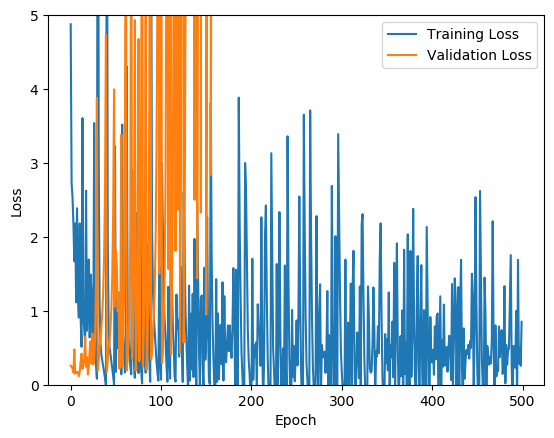
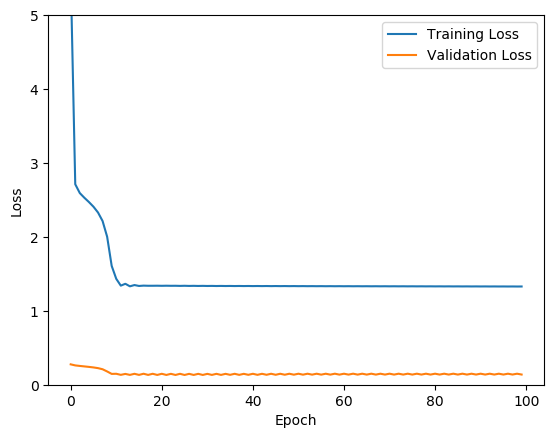
all model sims working

diff --git a/simple_models.py b/simple_models.py
@@ -13,11 +13,11 @@ Outputs:
 """
 def simple_model_one_loglkhd(theta, phi, df):
     
-    x = df.drop(['time', 'status'], axis=1) # Pandas dataframe of covariate columns
+    x = df.drop(["time", "status", "true_alpha", "true_beta"], axis=1) # Pandas dataframe of covariate columns
     a = theta[0] + x.dot(np.array(theta[1:])) # alpha = theta_0 + < theta[1:p], x >
     
     if True in (item <= 0 for item in a): # all alpha values must be positive for l to be defined
-        return - math.inf
+        return - math.inf # L=0 so l=-infinity
     
     l = np.sum(df["status"] * np.log(phi * np.power(a,-phi) * np.power(df["time"],phi-1))) # first sum of l
     l -= np.sum(np.power(df["time"]/a, phi-1)) # second sum of l
@@ -38,16 +38,16 @@ Outputs:
 
 def simple_model_one(train_df, test_df, init_params):
     # fit the model
-    fun = lambda x: -1 * simple_model_one_loglkhd(x[:-1], x[-1], train_df) # wrapper for negative log-lkhd function
-    res = scipy.optimize.minimize(fun, method='Nelder-Mead', x0=init_params) # minimise negative log-lkhd
+    fun = lambda x: -1 * simple_model_one_loglkhd(x[:-1], x[-1], train_df) # wrapper function: maps x to -logL(x|train_df)
+    res = scipy.optimize.minimize(fun, x0=init_params) # minimise negative log-lkhd
     # make predictions on the test set
-    parameters = res.x
-    theta = parameters[0:-1]
+    parameters = res.x # the optimal parameter values
+    theta = parameters[0:-1] 
     phi = parameters[-1]
     test_result = test_df.copy()
-    x = test_result.drop(["time", "status"], axis=1)
-    test_result["alpha"] = theta[0] + x.dot(np.array(theta[1:])) # alpha = theta_0 + < theta[1:p], x >
-    test_result["beta"] = phi # beta = phi
+    x = test_result.drop(["time", "status", "true_alpha", "true_beta"], axis=1)
+    test_result["pred_alpha"] = theta[0] + x.dot(np.array(theta[1:])) # alpha = theta_0 + < theta[1:p], x >
+    test_result["pred_beta"] = phi # beta = phi
     return ({
             "parameters" : parameters, # the parameter values that minimise the negative log-lkhd
             "convergence_success" : res.success, # Boolean: whether the optimiser converged successfully
@@ -65,12 +65,12 @@ Outputs:
 """
 def simple_model_two_loglkhd(theta, phi, df):
     
-    x = df.drop(['time', 'status'], axis=1) # Pandas dataframe of covariate columns
+    x = df.drop(["time", "status", "true_alpha", "true_beta"], axis=1) # Pandas dataframe of covariate columns
     a = theta[0] + x.dot(np.array(theta[1:])) # alpha = theta_0 + < theta[1:p], x >
     b = phi[0] + x.dot(np.array(phi[1:])) # beta = phi_0 + < phi[1:p], x >
     
     if True in (item <= 0 for item in pd.concat([a,b])): # all alpha and beta values must be positive
-        return - math.inf
+        return - math.inf # L=0 so l=-infinity
     
     l = np.sum(df["status"] * np.log(b * np.power(a,-b) * np.power(df["time"],b-1))) # first sum of l
     l -= np.sum(np.power(df["time"]/a, b-1)) # second sum of l
@@ -91,17 +91,16 @@ Outputs:
 def simple_model_two(train_df, test_df, init_params):
     # fit the model
     fun = lambda x: -1 * simple_model_two_loglkhd(x[:len(x)//2], x[len(x)//2:], train_df) # wrapper for negative log-lkhd function
-    res = scipy.optimize.minimize(fun, method='Nelder-Mead', x0=init_params) # minimise negative log-lkhd
+    res = scipy.optimize.minimize(fun, x0=init_params) # minimise negative log-lkhd
     # make predictions on the test set
     parameters = res.x
-    length = len(parameters)
-    half_length = length//2
+    half_length = len(parameters)//2
     theta = parameters[:half_length]
     phi = parameters[half_length:]
     test_result = test_df.copy()
-    x = test_result.drop(['time', 'status'], axis=1)
-    test_result["alpha"] = theta[0] + x.dot(np.array(theta[1:])) # alpha = theta_0 + < theta[1:p], x >
-    test_result["beta"] = phi[0] + x.dot(np.array(phi[1:])) # beta = phi_0 + < phi[1:p], x >
+    x = test_result.drop(["time", "status", "true_alpha", "true_beta"], axis=1)
+    test_result["pred_alpha"] = theta[0] + x.dot(np.array(theta[1:])) # alpha = theta_0 + < theta[1:p], x >
+    test_result["pred_beta"] = phi[0] + x.dot(np.array(phi[1:])) # beta = phi_0 + < phi[1:p], x >
     return ({
             "parameters" : parameters, # the parameter values that minimise the negative log-lkhd
             "convergence_success" : res.success, # Boolean: whether the optimiser converged successfully

diff --git a/deepweibull.py b/deepweibull.py
@@ -61,10 +61,12 @@ def make_tensors(train_df, test_df):
 
     # separate the features and outcome variables
     train_x = train_df.copy()
+    train_x = train_x.drop(["true_alpha", "true_beta"], axis=1)
     test_x = test_df.copy()
+    test_x = test_x.drop(["true_alpha", "true_beta"], axis=1)
     train_y = pd.DataFrame([train_x.pop(colname) for colname in ['time', 'status']]).T 
     test_y = pd.DataFrame([test_x.pop(colname) for colname in ['time', 'status']]).T
-    # covert to tensor
+    # convert to tensor
     train_x = tf.convert_to_tensor(train_x.values, tf.float32)
     train_y = tf.convert_to_tensor(train_y.values, tf.float32)
     test_x = tf.convert_to_tensor(test_x.values, tf.float32)
@@ -85,7 +87,12 @@ Outputs:
     - test_result: a Pandas dataframe with the outcome variables and corresponding predicted Weibull parameters.
 """
 
-def train_deep_weibull(tensors,learn_rate, epochs, steps_per_epoch, validation_steps):
+def deep_weibull(train_df, test_df, learn_rate, epochs, steps_per_epoch, validation_steps):
+
+    """
+    Make the tensors from the training/test sets
+    """
+    tensors = make_tensors(train_df, test_df)
 
     """
     Define the model:
@@ -127,36 +134,21 @@ def train_deep_weibull(tensors,learn_rate, epochs, steps_per_epoch, validation_s
         verbose=0,
         validation_data=(tensors["test_x"], tensors["test_y"]), 
         validation_steps=validation_steps)
-    
+      
     """
-    Test the final trained model: 
-        - using the training set (x values only)
-        - test_result: shows the time/status values alongside the model's predicted Weibull parameters
+    Test the trained Deep Weibull model on the test set
     """
-    
-    test_predict = model.predict(tensors["test_x"], steps=1) 
-    test_predict = np.resize(test_predict, tensors["test_y"].shape) 
-    test_result = np.concatenate((tensors["test_y"], test_predict), axis=1)
-    
+
+    test_predict = model.predict(tensors["test_x"], steps=1) # predict Weibull parameters using covariates
+    test_predict = np.resize(test_predict, tensors["test_y"].shape) # put into (,2) array
+    test_predict = pd.DataFrame(test_predict) # convert to dataframe
+    test_predict.columns = ["pred_alpha", "pred_beta"] # name columns
+    test_result = test_df.copy()
+    test_result.reset_index(inplace = True) # reset the index (before concat - probably better way of doing this)
+    test_result = pd.concat([test_result, test_predict], axis=1) # results = test data plus predictions
+    test_result.set_index("index", drop=True, inplace=True) # recover the index (after concat - probably better way of doing this)
+
     return ({
             "model" : model,
             "training_history" : training_history,
             "test_result" : test_result})
-
-"""
-Inputs:
-    - tensors: a list of tensors, e.g. as in output of make_train_test(), but only "test_x","test_y" actually get used.
-    - model:a trained model, as in "model" output from train_deep_weibull()
-Outputs:
-    - a Pandas dataframe with four columns 
-        - "time","status" (actual values, from "test_y")
-        - "alpha","beta" (the model's predicted Weibull parameters)s
-"""
-
-def test_deep_weibull(tensors, model):
-    test_predict = model.predict(tensors["test_x"], steps=1) # predict Weibull parameters using covariates
-    test_predict = np.resize(test_predict, tensors["test_y"].shape) 
-    test_result = np.concatenate((tensors["test_x"],tensors["test_y"], test_predict), axis=1)
-    test_result = pd.DataFrame(test_result)
-    test_result.columns = ['x1','x2','x3','time','status','alpha','beta']
-    return test_result

diff --git a/simulations.py b/simulations.py
@@ -1,5 +1,5 @@
 from synthetic_datasets import synthdata_noise, synthdata_custom, make_train_test
-from deepweibull import make_tensors, train_deep_weibull, test_deep_weibull
+from deepweibull import deep_weibull
 from simple_models import simple_model_one, simple_model_two
 
 from matplotlib import pyplot as plt
@@ -21,13 +21,13 @@ Inputs to run simulations:
 """
 # Inputs for the synthetic dataset
 synthdata_type = "custom"
-N = 10
-N_c = 1
+N = 10000
+N_c = 2500
 # Input for making the train/test sets
-train_frac = 0.7
+train_frac = 1 - (10/N) 
 # Inputs for the Deep Weibull model
-learn_rate = 0.1
-epochs = 500
+learn_rate = 0.05
+epochs = 100
 steps_per_epoch = 5
 validation_steps = 10
 # Initial parameters for simple model one
@@ -58,11 +58,10 @@ Run the Deep Weibull model:
 """
 
 # train the model
-tensors = make_tensors(train_df,test_df)
-train_deep_weibull = train_deep_weibull(tensors, learn_rate, epochs, steps_per_epoch, validation_steps)
+deep_weibull = deep_weibull(train_df, test_df, learn_rate, epochs, steps_per_epoch, validation_steps)
 # create plot of the training/validation loss
-hist = pd.DataFrame(train_deep_weibull["training_history"].history)
-hist['epoch'] = train_deep_weibull["training_history"].epoch
+hist = pd.DataFrame(deep_weibull["training_history"].history)
+hist['epoch'] = deep_weibull["training_history"].epoch
 plt.figure()
 plt.xlabel('Epoch')
 plt.ylabel('Loss')
@@ -72,7 +71,7 @@ plt.ylim([0,5])
 plt.legend()
 plt.savefig('plt.png', bbox_inches='tight')
 # test the model on validation set
-test_deep_weibull = test_deep_weibull(tensors, train_deep_weibull["model"])
+test_deep_weibull = deep_weibull["test_result"]
 # create csv file of validation set results
 test_deep_weibull.to_csv("deep_weibull_results.csv", index=False)
 

diff --git a/synthetic_datasets.py b/synthetic_datasets.py
@@ -27,11 +27,13 @@ def synthdata_noise(N,N_c):
     status[censored] = 0 # set status indicator for censored patients to 0
     time[censored] = np.random.uniform(low=0,high=time[censored]) # simulate censoring time Uniform(0,old event time)
     data = {
-        'x1':[item[0] for item in x], 
-        'x2':[item[1] for item in x],
-        'x3':[item[2] for item in x],
-        'time':time,
-        'status':status
+        'x1':[item[0] for item in x], # covariate 1
+        'x2':[item[1] for item in x], # covariate 2
+        'x3':[item[2] for item in x], # covariate 3
+        'time': time, # simulated event/censoring time
+        'status': status, # 0=censored, 1=dead
+        'true_alpha' : a, # true alpha value used to simulate death time
+        'true_beta' : b # true beta value used to simulate death time
     }
     df = pd.DataFrame(data)
     return df
@@ -59,11 +61,13 @@ def synthdata_custom(N,N_c):
     status[censored] = 0 # set status indicator for censored to 0
     time[censored] = np.random.uniform(low=0,high=time[censored]) # simulate censoring time Uniform(0,old event time)
     data = {
-        'x1':[item[0] for item in x], 
-        'x2':[item[1] for item in x],
-        'x3':[item[2] for item in x],
-        'time': time,
-        'status': status
+        'x1':[item[0] for item in x], # covariate 1
+        'x2':[item[1] for item in x], # covariate 2
+        'x3':[item[2] for item in x], # covariate 3
+        'time': time, # simulated event/censoring time
+        'status': status, # 0=censored, 1=dead
+        'true_alpha' : a, # true alpha value used to simulate death time
+        'true_beta' : b # true beta value used to simulate death time
     }
     df = pd.DataFrame(data)
     return df
